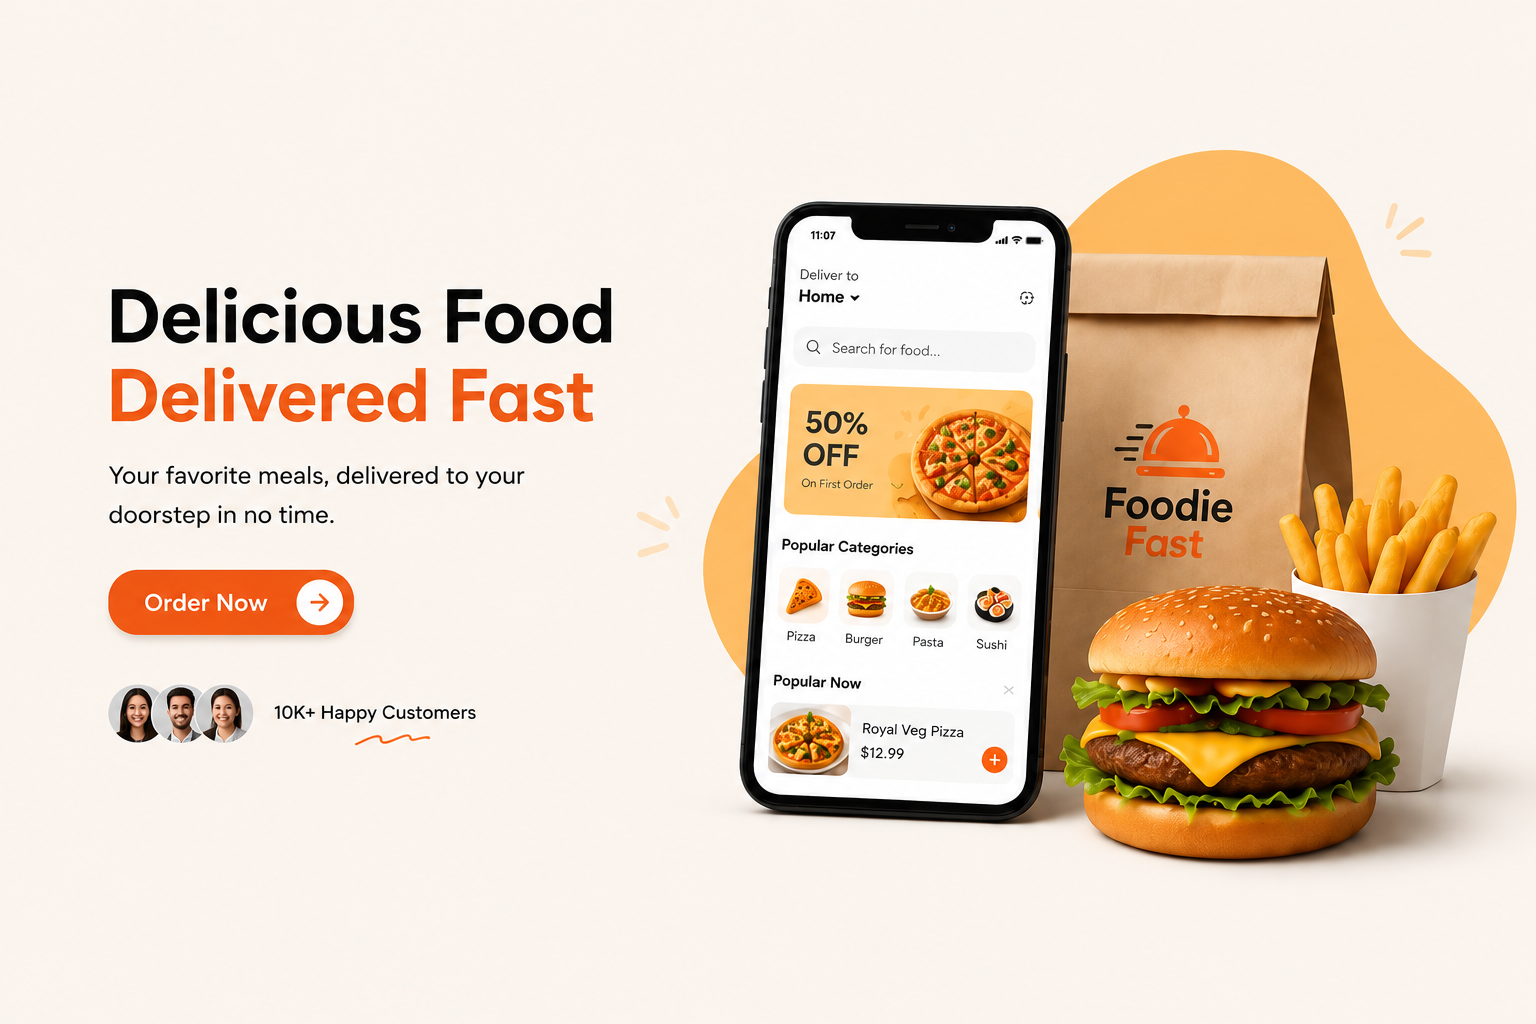
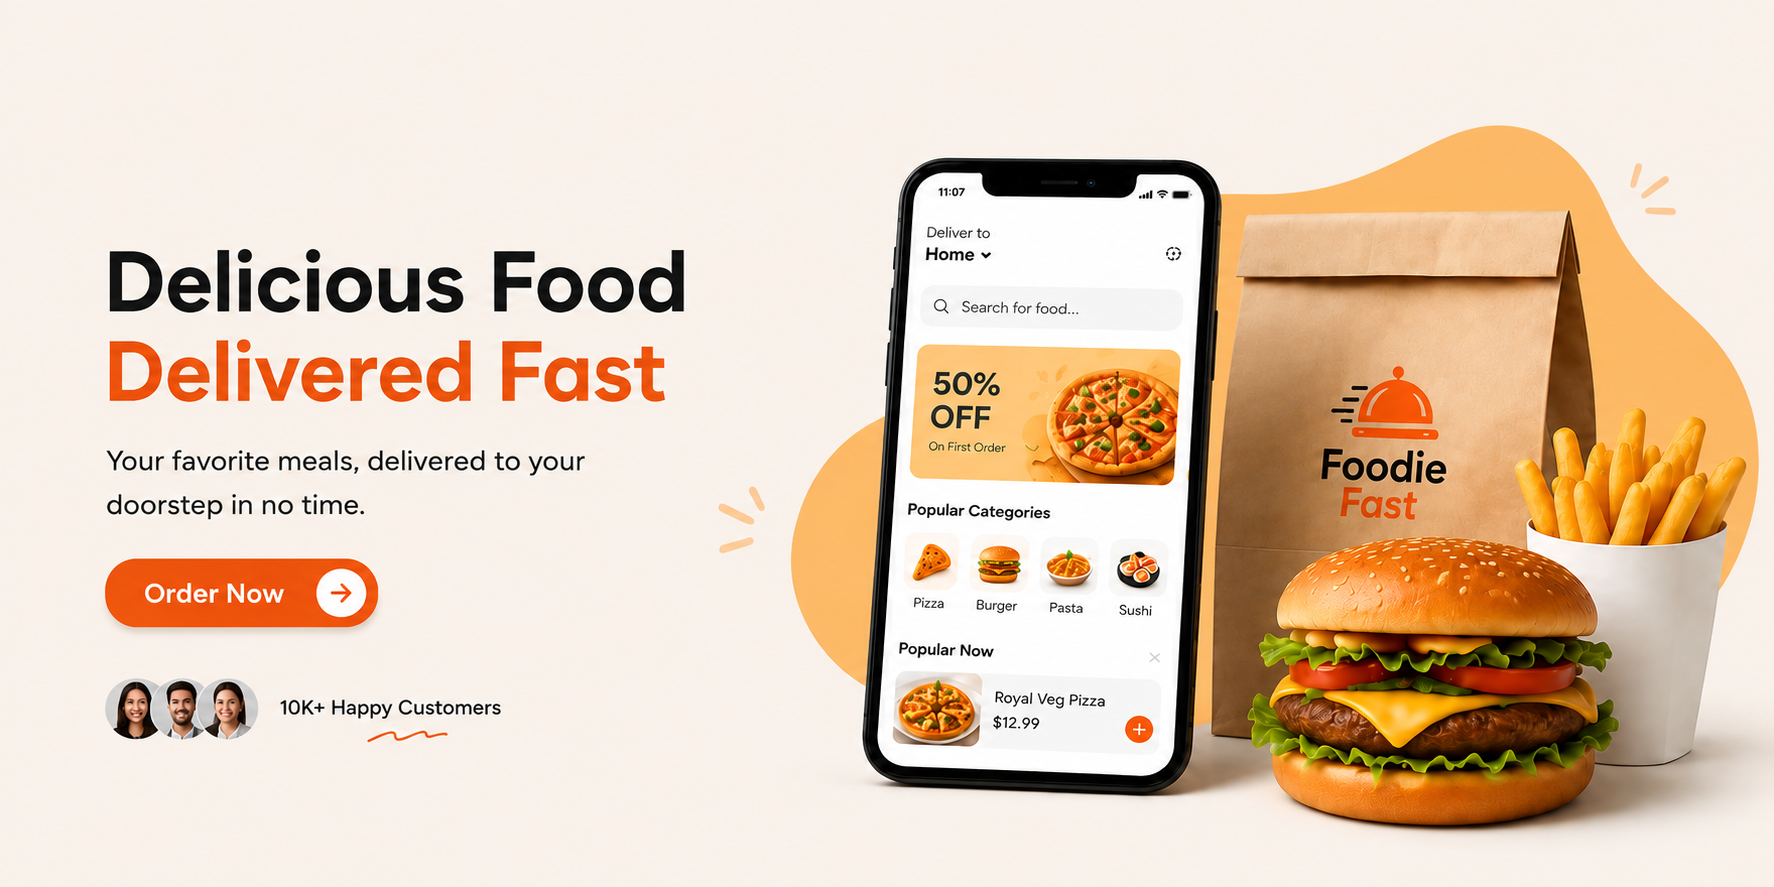
changes

Changed region(s): [[0.4062, 0.1218, 1.0, 0.9436], [0.0625, 0.274, 0.4062, 0.7306], [0.0625, 0.761, 0.2812, 0.8523]]

diff --git a/src/App.css b/src/App.css
@@ -1,226 +1,211 @@
 :root {
-    /* =========================
+  /* =========================
       BODY
   ========================== */
-    --body-bg: #FFFDF8;
-    --body-text-primary: #1A1A1A;
-    --body-text-secondary: #5F5F5F;
-    --body-border-color: #EFE7DD;
+  --body-bg: #FFFDF8;
+  --body-text-primary: #1A1A1A;
+  --body-text-secondary: #5F5F5F;
+  --body-border-color: 1px solid #EFE7DD;
 
-    /* =========================
+  /* =========================
       BRAND COLORS
   ========================== */
-    --primary-color: #FF6B00;
-    --primary-hover: #E65F00;
-    --primary-light: #FFF1E5;
+  --primary-color: #FF6B00;
+  --primary-hover: #E65F00;
+  --primary-light: #FFF1E5;
 
-    --secondary-color: #FFB54A;
-    --accent-color: #FFC96B;
+  --secondary-color: #FFB54A;
+  --accent-color: #FFC96B;
 
-    /* =========================
+  /* =========================
       NAVBAR
   ========================== */
-    --navbar-bg: #FFFFFF;
-    --navbar-border: 1px solid #ECECEC;
-    --navbar-shadow: 0 4px 18px rgba(0, 0, 0, 0.05);
+  --navbar-bg: #FFFFFF;
+  --navbar-border: 1px solid #ECECEC;
+  --navbar-shadow: 0 4px 18px rgba(0, 0, 0, 0.05);
 
-    --navbar-link: #1A1A1A;
-    --navbar-link-hover: #FF6B00;
-    --navbar-link-active: #FF6B00;
+  --navbar-link: #1A1A1A;
+  --navbar-link-hover: #FF6B00;
+  --navbar-link-active: #FF6B00;
 
-    /* =========================
+  /* =========================
       LOGO
   ========================== */
-    --logo-primary: #FF6B00;
-    --logo-secondary: #111111;
+  --logo-primary: #FF6B00;
+  --logo-secondary: #111111;
 
-    /* =========================
+  /* =========================
       HERO SECTION
   ========================== */
-    --hero-bg: #FFFDF8;
-    --hero-heading: #111111;
-    --hero-highlight: #FF6B00;
-    --hero-text: #555555;
+  --hero-bg: #FFFDF8;
+  --hero-heading: #111111;
+  --hero-highlight: #FF6B00;
+  --hero-text: #555555;
 
-    /* =========================
+  /* =========================
       BUTTONS
   ========================== */
-    --btn-primary-bg: #FF6B00;
-    --btn-primary-hover: #E65F00;
-    --btn-primary-text: #FFFFFF;
+  --btn-primary-bg: #FF6B00;
+  --btn-primary-hover: #E65F00;
+  --btn-primary-text: #FFFFFF;
 
-    --btn-secondary-bg: #FFFFFF;
-    --btn-secondary-text: #111111;
-    --btn-secondary-border: #DDDDDD;
+  --btn-secondary-bg: #FFFFFF;
+  --btn-secondary-text: #111111;
+  --btn-secondary-border: 1px solid #DDDDDD;
 
-    /* =========================
+  /* =========================
       CARDS
   ========================== */
-    --card-bg: #FFFFFF;
-    --card-border: #EEEEEE;
-    --card-shadow: 0 10px 30px rgba(0, 0, 0, .08);
-    --card-shadow-hover: 0 16px 40px rgba(0, 0, 0, .12);
+  --card-bg: #FFFFFF;
+  --card-border: 1px solid #EEEEEE;
+  --card-shadow: 0 10px 30px rgba(0, 0, 0, .08);
+  --card-shadow-hover: 0 16px 40px rgba(0, 0, 0, .12);
 
-    /* =========================
+  /* =========================
       PRODUCT CARD
   ========================== */
-    --product-title: #222222;
-    --product-price: #111111;
-    --product-rating: #FF8A00;
-    --product-add-btn: #FF6B00;
-    --product-add-btn-hover: #E65F00;
+  --product-title: #222222;
+  --product-price: #111111;
+  --product-rating: #FF8A00;
+  --product-add-btn: #FF6B00;
+  --product-add-btn-hover: #E65F00;
 
-    /* =========================
+  /* =========================
       SECTION
   ========================== */
-    --section-bg: #FFFDF8;
-    --section-title: #1A1A1A;
-    --section-subtitle: #FF6B00;
+  --section-bg: #FFFDF8;
+  --section-title: #1A1A1A;
+  --section-subtitle: #FF6B00;
 
-    /* =========================
+  /* =========================
       ICONS
   ========================== */
-    --icon-color: #FF6B00;
-    --icon-bg: #FFF3E8;
+  --icon-color: #FF6B00;
+  --icon-bg: #FFF3E8;
 
-    /* =========================
+  /* =========================
       INPUT
   ========================== */
-    --input-bg: #FFFFFF;
-    --input-border: #DDDDDD;
-    --input-focus: #FF6B00;
-    --input-placeholder: #999999;
-    --input-text: #222222;
+  --input-bg: #FFFFFF;
+  --input-border: 1px solid #DDDDDD;
+  --input-focus: #FF6B00;
+  --input-placeholder: #999999;
+  --input-text: #222222;
 
-    /* =========================
+  /* =========================
       NEWSLETTER
   ========================== */
-    --newsletter-bg: linear-gradient(90deg, #FF6B00, #FF7E1D);
-    --newsletter-heading: #FFFFFF;
-    --newsletter-text: #FFF5F0;
+  --newsletter-bg: linear-gradient(90deg, #FF6B00, #FF7E1D);
+  --newsletter-heading: #FFFFFF;
+  --newsletter-text: #FFF5F0;
 
-    /* =========================
+  /* =========================
       FOOTER
   ========================== */
-    --footer-bg: #121212;
-    --footer-heading: #FFFFFF;
-    --footer-text: #C8C8C8;
-    --footer-link: #E5E5E5;
-    --footer-link-hover: #FF6B00;
-    --footer-border: #2C2C2C;
+  --footer-bg: #121212;
+  --footer-heading: #FFFFFF;
+  --footer-text: #C8C8C8;
+  --footer-link: #E5E5E5;
+  --footer-link-hover: #FF6B00;
+  --footer-border: 1px solid #2C2C2C;
 
-    /* =========================
+  /* =========================
       SOCIAL
   ========================== */
-    --social-bg: #1F1F1F;
-    --social-color: #FFFFFF;
-    --social-hover: #FF6B00;
+  --social-bg: #1F1F1F;
+  --social-color: #FFFFFF;
+  --social-hover: #FF6B00;
 
-    /* =========================
+  /* =========================
       BADGES
   ========================== */
-    --badge-bg: #FF6B00;
-    --badge-text: #FFFFFF;
+  --badge-bg: #FF6B00;
+  --badge-text: #FFFFFF;
 
-    /* =========================
+  /* =========================
       SHADOWS
   ========================== */
-    --shadow-sm: 0 2px 8px rgba(0, 0, 0, .05);
-    --shadow-md: 0 6px 18px rgba(0, 0, 0, .08);
-    --shadow-lg: 0 12px 35px rgba(0, 0, 0, .12);
+  --shadow-sm: 0 2px 8px rgba(0, 0, 0, .05);
+  --shadow-md: 0 6px 18px rgba(0, 0, 0, .08);
+  --shadow-lg: 0 12px 35px rgba(0, 0, 0, .12);
 
-    /* =========================
+  /* =========================
       BORDER RADIUS
   ========================== */
-    --radius-sm: 8px;
-    --radius-md: 12px;
-    --radius-lg: 20px;
-    --radius-xl: 30px;
-    --radius-round: 999px;
+  --radius-sm: 8px;
+  --radius-md: 12px;
+  --radius-lg: 20px;
+  --radius-xl: 30px;
+  --radius-round: 999px;
 
-    /* =========================
+  /* =========================
       TRANSITION
   ========================== */
-    --transition: all .3s ease;
+  --transition: all .3s ease;
 }
 
 * {
-    margin: 0;
-    padding: 0;
-    box-sizing: border-box;
-    font-family: 'Segoe UI', Tahoma, Geneva, Verdana, sans-serif;
+  margin: 0;
+  padding: 0;
+  box-sizing: border-box;
+  font-family: 'Segoe UI', Tahoma, Geneva, Verdana, sans-serif;
+}
+
+.continer {
+  max-width: 1450px;
+  margin: 0 auto;
 }
 
 .navbar {
-    display: flex;
-    align-items: center;
-    justify-content: space-between;
-    gap: 20px;
-    height: 70px;
-    padding: 0 30px;
+  background-color: var(--navbar-bg);
+  display: flex;
+  align-items: center;
+  justify-content: space-between;
+  gap: 20px;
+  height: 70px;
+  padding: 0 30px;
 }
 
 .navbar .logo img {
-    width: 150px;
+  width: 150px;
 }
 
 .navbar .nav-links {
-    display: flex;
-    align-items: center;
-    gap: 40px;
+  display: flex;
+  align-items: center;
+  gap: 40px;
 }
 
 .navbar .nav-links a {
-    text-decoration: none;
-    color: var(--body-text-secondary);
-    transition: color 0.2s ease;
+  text-decoration: none;
+  color: var(--body-text-secondary);
+  transition: color 0.2s ease;
 }
 
 .navbar .nav-links a:hover {
-    color: var(--body-text-primary);
+  color: var(--body-text-primary);
 }
 
-.navbar .icons {
-    display: flex;
-    align-items: center;
-    gap: 10px;
+.navbar .search-bar {
+  width: 100%;
+  max-width: 250px;
+  height: 40px;
+  position: relative;
 }
 
-.navbar .icons div {
-    position: relative;
-    width: 45px;
-    height: 45px;
-    border-radius: 50%;
-    display: flex;
-    justify-content: center;
-    align-items: center;
-    cursor: pointer;
+.navbar .search-bar input {
+  height: 100%;
+  width: 100%;
+  border-radius: 6px;
+  border: var(--card-border);
+  border-width: 1.5px;
 }
 
-.navbar .icons div:hover {
-    background-color: #f3f4f6;
-}
-
-.navbar .icons div span {
-    position: absolute;
-    top: 3px;
-    right: 0;
-    height: 18px;
-    width: 18px;
-    border-radius: 50%;
-    display: flex;
-    justify-content: center;
-    align-items: center;
-    background-color: var(--primary-color);
-    color: #fff;
-    font-size: 12px;
-    font-weight: 500;
-}
-
-.navbar .icons i {
-    font-size: 24px;
+.navbar .search-bar input::placeholder {
+  color: initial;
 }
 
 .hero-section img {
-    width: 100%;
+  width: 100%;
+  max-width: 1450px;
 }

diff --git a/src/App.jsx b/src/App.jsx
@@ -19,24 +19,19 @@ function App() {
                     <a href="">Contact</a>
                 </div>
 
-                <div className="icons">
-                    <div>
-                        <i className="ph ph-magnifying-glass"></i>
-                    </div>
-                    <div>
-                        <i className="ph ph-user"></i>
-                    </div>
-                    <div>
-                        <i className="ph ph-shopping-cart-simple"></i>
-                        <span>2</span>
-                    </div>
+                <div className="search-bar">
+                    <input type="text" placeholder="Search your favourite food..." />
                 </div>
 
             </div>
 
-            <section className="hero-section">
-                <img src={heroImage} alt="hero image" />
-            </section>
+            <div className="continer">
+
+                <section className="hero-section">
+                    <img src={heroImage} alt="hero image" />
+                </section>
+                
+            </div>
         </>
     )
 }
